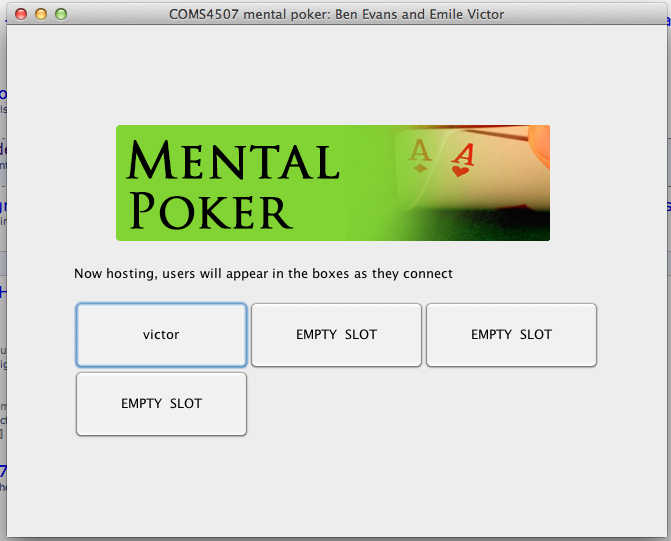
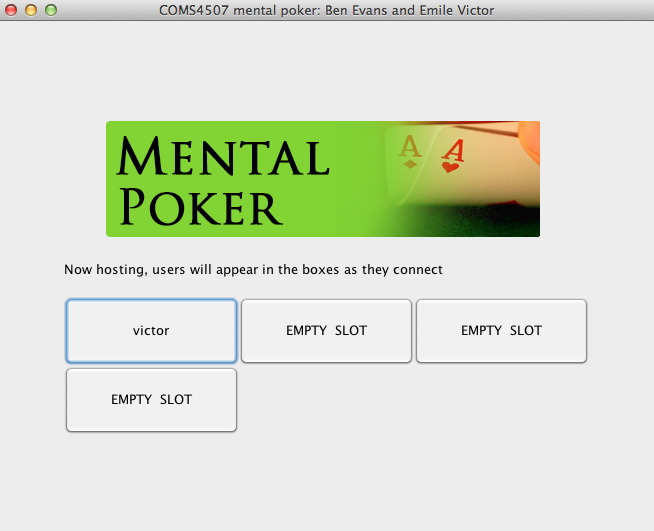
A few changes. Trimmed the outside of a couple of the images.

diff --git a/report/report.tex b/report/report.tex
@@ -2,6 +2,7 @@
 \usepackage{geometry}                		% See geometry.pdf to learn the layout options. There are lots.
 \usepackage{listings}
 \usepackage{color}
+\usepackage{framed}
 \usepackage{url}
 \geometry{letterpaper}                   		% ... or a4paper or a5paper or ... 
 %\geometry{landscape}                		% Activate for for rotated page geometry
@@ -11,7 +12,8 @@
 \usepackage{amssymb}
 \usepackage{float}
 
-\floatstyle{boxed} 
+%\FrameSep0pt
+
 \restylefloat{figure}
 %\setlength{\intextsep}{1.8ex}
 \setlength{\parindent}{0pt}
@@ -23,9 +25,9 @@
 \lstset{ %
   language=Java,                			% the language of the code
   basicstyle=\footnotesize,           		% the size of the fonts that are used for the code
-  numbers=left,                   			% where to put the line-numbers
-  numberstyle=\tiny\color{gray},  		% the style that is used for the line-numbers
-  stepnumber=1,                   			% the step between two line-numbers. If it's 1, each line 
+  %numbers=,                   			% where to put the line-numbers
+  %numberstyle=\tiny\color{gray},  		% the style that is used for the line-numbers
+  %stepnumber=1,                   			% the step between two line-numbers. If it's 1, each line 
                                   				% will be numbered
   numbersep=5pt,                  			% how far the line-numbers are from the code
   backgroundcolor=\color{white},      	% choose the background color. You must add \usepackage{color}
@@ -90,10 +92,12 @@ The implementation utilises the UQ Elvin server, and transmits pre-encrypted tex
 
 \begin{figure}[H]
 	\caption{RSA variables used in the generation of the encryption and decryption keys.}
-	\vspace{0.25cm} 
+	\vspace{0.2cm} 
   	\centering
-	$n=pq$\\$\phi=(p-1)(q-1)$
-	\vspace{0.25cm} 
+	\begin{framed}
+		$n=pq$\\$\phi=(p-1)(q-1)$
+	\end{framed}
+	\vspace{-0.45cm} 
 	\label{fig:rsavars}
 \end{figure}
 
@@ -105,6 +109,7 @@ Figure \ref{fig:code} shows the Java code for key generation in the application 
 
 \begin{figure}[H]
 \caption{Key Generation.}
+\begin{framed}
 \begin{lstlisting}
 private void genKeys() throws NoSuchAlgorithmException,
 			InvalidKeySpecException {
@@ -123,6 +128,9 @@ private void genKeys() throws NoSuchAlgorithmException,
 		}
 	}
 \end{lstlisting}
+\vspace{-0.45cm} 
+\end{framed}
+\vspace{-0.45cm} 
 \label{fig:code}
 \end{figure}
 
@@ -154,7 +162,8 @@ After all this, every users’ decryption request has been compared with another
 
 \begin{figure}[H]
 \caption{Community cards decryption check.}
-\vspace{0.2cm} 
+\vspace{0.1cm} 
+\begin{framed}
 
 \begin{tabbing}
 First Round:		\hspace{2.5cm} \=  $U_1$ \hspace{1cm}\= $U_2$ \hspace{1cm}\= $U_3$ \hspace{1cm}\= $\underline{{\bf \color{dkgreen}U_4}}$\\
@@ -166,7 +175,9 @@ Fourth Round:		\>$\underline{\bf U_1}$ \>${\bf U_2}$ \>${\bf U_3}$ \>${\bf \colo
 {\bf \color{dkgreen}$U_4$} is the host.\\
 Bold represents that the user has been or is the recipient of a decryption round.\\
 Underlined represents that the user is the recipient of a decryption round.
-\vspace{0.2cm} 
+\vspace{0.1cm} 
+\end{framed}
+\vspace{-0.45cm} 
 \label{fig:com}
 \end{figure}
 
